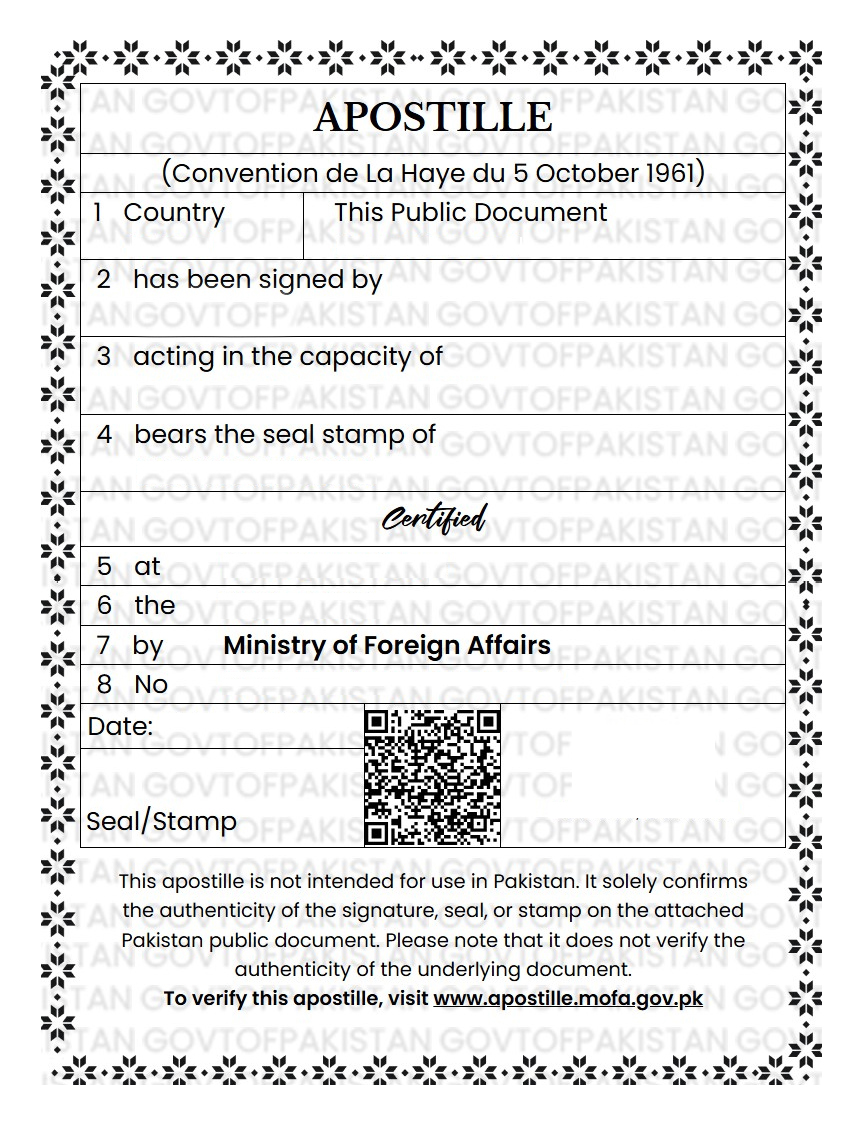
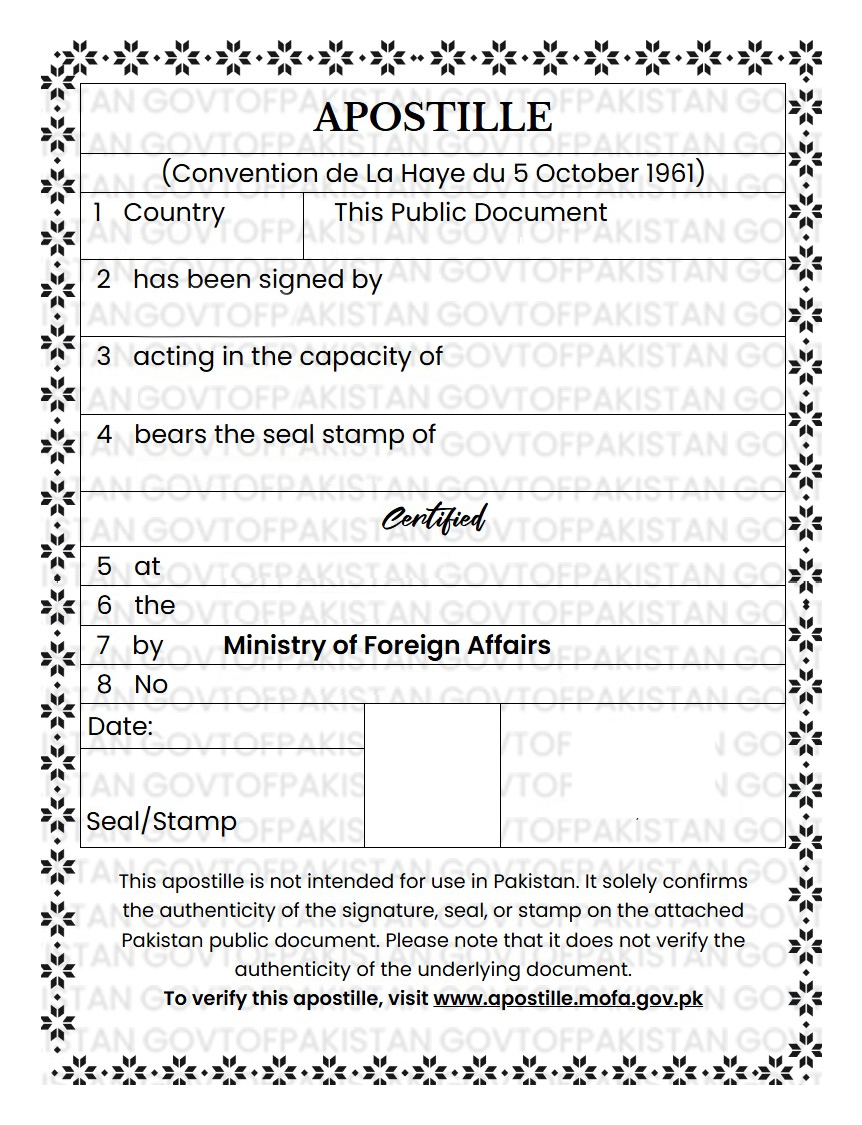
Swap in the blank-QR template and fit the QR to its actual cell
The new template has the sample QR graphic removed from its placeholder
cell entirely, so the overlaid QR no longer needs to fight anything showing
through behind it. Maxes the QR to the cell's full column width (136px,
between its two persistent divider rules) rather than a guessed size, and
drops the QR's own white backing rect now that the cell is already blank —
a separately-drawn pure-white rect over the image's JPEG-compressed white
risked a visible seam. Values are bumped 10% (22px) after a closer look
against row 7's reference text, and the signature image is bigger and both
it and the signatory name sit further down in their cell.

Changed region(s): [[0.4223, 0.6222, 0.6032, 0.7778]]

diff --git a/src/lib/certificate.ts b/src/lib/certificate.ts
@@ -555,7 +555,7 @@ const TPL_H = 1125;
  * asked every overlaid value to follow for style, weight and size. Measured by comparing rendered
  * cap-heights against that fixed text directly, since the image's own font metrics don't line up
  * with this file's generic-family width estimate. */
-const TPL_VALUE_SIZE = 20;
+const TPL_VALUE_SIZE = 22;
 const TPL_ROW1 = { leftX: 125, rightX: 335, y: 250 };
 /** Rows 2-4: value stacked under the fixed label, at this x and baseline. */
 const TPL_STACKED = [
@@ -571,8 +571,11 @@ const TPL_INLINE = [
   { field: 7, x: 184, y: 692 },
 ];
 const TPL_DATE = { x: 165, y: 735 };
-const TPL_QR = { x: 365, y: 709, size: 134 };
-const TPL_SIGNATURE = { cx: 642, y: 712, w: 170, h: 67, nameY: 812 };
+/** The QR's cell runs from x 364 to 500 (persistent column rules either side); maxed to that width
+ * and left square, so it comes out taller than the cell — the panel asked for the width filled
+ * rather than the aspect ratio changed to fit both dimensions. */
+const TPL_QR = { x: 364, y: 707, size: 136 };
+const TPL_SIGNATURE = { cx: 642, y: 726, w: 195, h: 77, nameY: 828 };
 /** Where an overflow row (past the template's fixed 8) starts, and the same numbered-row layout
  * the fully-drawn certificate uses for it. */
 const TPL_OVERFLOW_MARGIN = 32;
@@ -608,9 +611,9 @@ function buildTemplateCertificateSvg(
   // "Date:" repeats row 6's value (the issue date row), per the template's own layout.
   parts.push(text(TPL_DATE.x, TPL_DATE.y, value(5), { size: TPL_VALUE_SIZE, bold: true }));
 
-  // A tight quiet zone: the template's own placeholder box already frames it, so the code doesn't
-  // need its usual margin on top of that.
-  parts.push(qrBlock(input.verifyUrl, TPL_QR.x, TPL_QR.y, TPL_QR.size, 1));
+  // No backing rect: the template's own cell is already blank, and drawing one on top of it only
+  // risks a seam where a pure white rect meets the image's JPEG-compressed near-white pixels.
+  parts.push(qrBlock(input.verifyUrl, TPL_QR.x, TPL_QR.y, TPL_QR.size, 1, false));
 
   if (input.signatureDataUri) {
     parts.push(
@@ -663,7 +666,7 @@ function buildTemplateCertificateSvg(
  * callers overlaying onto an already-framed placeholder can pass less since the frame itself
  * supplies separation from surrounding content.
  */
-function qrBlock(url: string, x: number, y: number, size: number, quiet = 4): string {
+function qrBlock(url: string, x: number, y: number, size: number, quiet = 4, whiteBg = true): string {
   let matrix;
   try {
     matrix = encodeQr(url, "M");
@@ -674,7 +677,7 @@ function qrBlock(url: string, x: number, y: number, size: number, quiet = 4): st
   const scale = size / span;
   return (
     `<g transform="translate(${round(x)} ${round(y)}) scale(${round(scale)})">` +
-    `<rect width="${span}" height="${span}" fill="#ffffff"/>` +
+    (whiteBg ? `<rect width="${span}" height="${span}" fill="#ffffff"/>` : "") +
     `<path transform="translate(${quiet} ${quiet})" fill="#000000" d="${qrToPathData(matrix)}"/>` +
     `</g>`
   );
